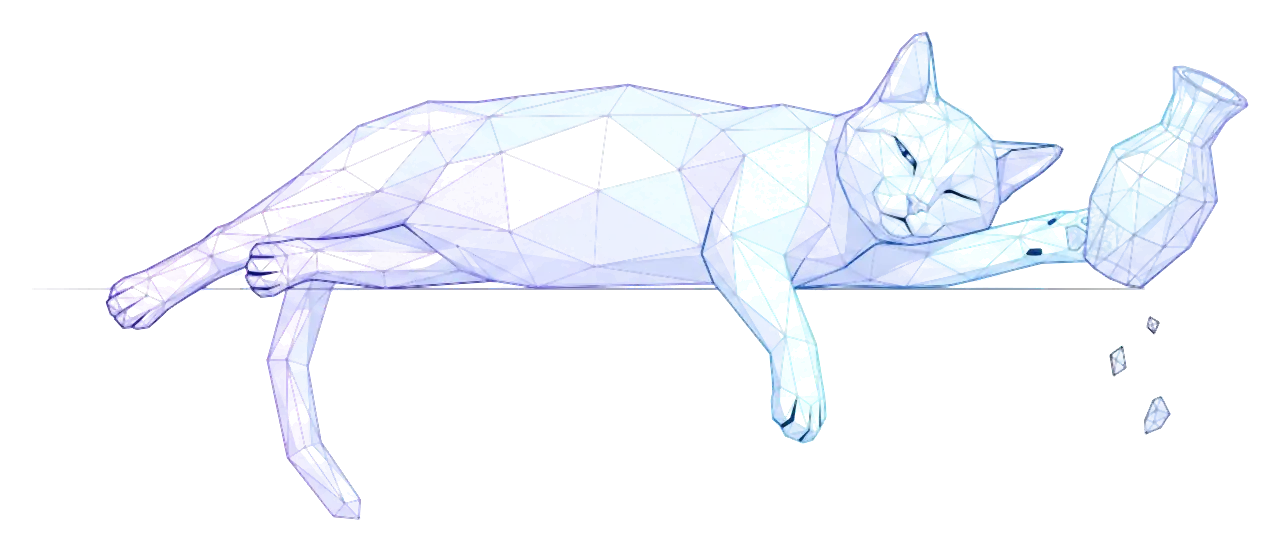
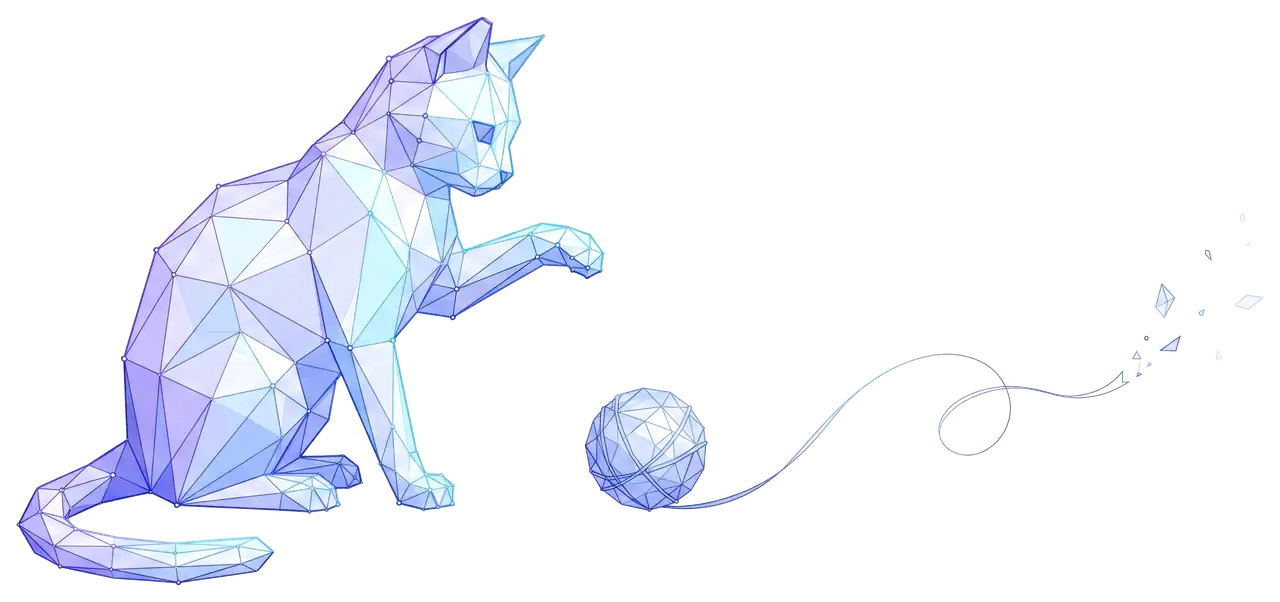
Add files via upload

diff --git a/404.html b/404.html
@@ -113,7 +113,7 @@
       </div>
     </div>
     <figure class="cat">
-      <img src="/images/cat-404.webp" width="1280" height="551" alt="Полигональный кот лениво сталкивает вазу с полки">
+      <img src="/images/cat-404.webp" width="1280" height="602" alt="Полигональный кот играет с клубком">
     </figure>
   </div>
 </main>
